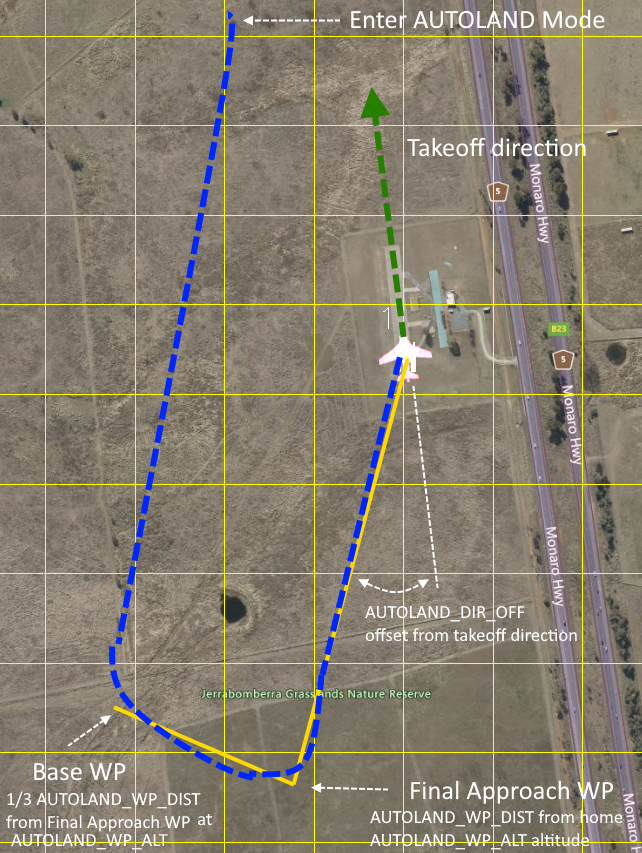
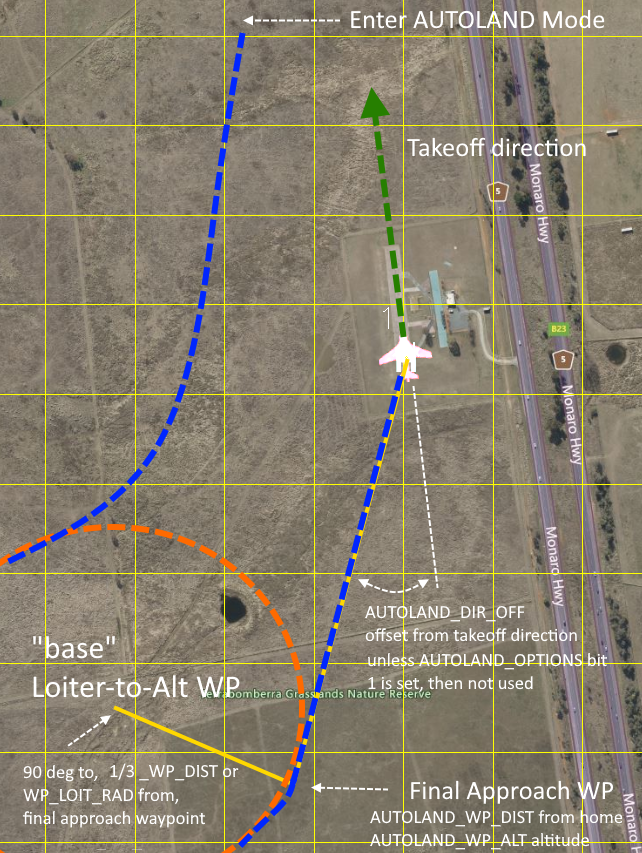
update to AUTOLAND improvements

diff --git a/plane/source/docs/mode_autoland.rst b/plane/source/docs/mode_autoland.rst
@@ -6,26 +6,31 @@ AUTOLAND Mode
 
 AUTOLAND mode provides a fully automatic fixed wing landing which can also be used as an RC failsafe action.
 
-In Mode Takeoff or during a NAV_TAKEOFF in AUTO, the takeoff direction will be captured from the GPS ground course once a GPS ground speed of 5m/s is obtained. This usually occurs early in the takeoff run of a rolling takeoff or almost immediately during a hand or bungee launch.
+In TAKEOFF, FBWA, MANUAL, TRAINING, ACRO,  STABILIZE modes, and during a NAV_TAKEOFF in AUTO, the takeoff direction will be captured from the GPS ground course once a GPS ground speed of 5m/s is obtained. This usually occurs early in the takeoff run of a rolling takeoff or almost immediately during a hand or bungee launch.
 
-It will setup a parameterized base leg and final approach waypoint/altitude, based on the takeoff direction, and proceed to it and switch to an automatic landing at home. It can also be selected as a :ref:`FS_LONG_ACTN<FS_LONG_ACTN>` for RC failsafes.
+It will setup a parameterized LOITER-TO-ALT base waypoint and final approach waypoint/altitude, based on the takeoff direction, and proceed to then and then switch to an automatic landing at home. It can also be selected as a :ref:`FS_LONG_ACTN<FS_LONG_ACTN>` for RC failsafes.
 
-This is useful when programming a mission with a ``DO_LAND_START`` landing sequence is not convenient since it requires a GCS on a laptop or phone, such as traveling with impromptu stops to fly FPV or photograph. Simply use Mode TAKEOFF or a simple loaded before travel with a ``NAV_TAKEOFF`` waypoint. It is also useful for fields which have varying wind directions, which would prevent using a single home-loaded autolanding mission or require using the MissionSelector LUA script to slect from several missions with different approaches.
+This is useful when programming a mission with a ``DO_LAND_START`` landing sequence is not convenient since it requires a GCS on a laptop or phone, such as traveling with impromptu stops to fly FPV or photograph. Simply takeoff in one of the previously mentioned modes and the AUTOLAND will be setup. It is also useful for fields which have varying wind directions, which would prevent using a single home-loaded autolanding mission or require using the MissionSelector LUA script to slect from several missions with different approaches.
 
 Operation
 =========
-To use simply make an automatic takeoff and at any point later switch into AUTOLAND. A final approach waypoint will be created behind the HOME landing target at :ref:`AUTOLAND_WP_DIST<AUTOLAND_WP_DIST>` (400m by default) at :ref:`AUTOLAND_WP_ALT<AUTOLAND_WP_ALT>`  (55m by default)using the takeoff direction plus :ref:`AUTOLAND_DIR_OFF<AUTOLAND_DIR_OFF>` ("0" default) and land using all the parametrics of a normal autolanding. A base leg to the final approach waypoint is also created at the same altitude and 1/3 :ref:`AUTOLAND_WP_DIST<AUTOLAND_WP_DIST>` from the final approach waypoint as shown below:
+To use simply make a takeoff and at any point later switch into AUTOLAND. A final approach waypoint will be created behind the HOME landing target at :ref:`AUTOLAND_WP_DIST<AUTOLAND_WP_DIST>` (400m by default) at :ref:`AUTOLAND_WP_ALT<AUTOLAND_WP_ALT>`  (55m by default)using the takeoff direction plus :ref:`AUTOLAND_DIR_OFF<AUTOLAND_DIR_OFF>` ("0" default) and land using all the parametrics of a normal autolanding. A loiter to alt waypoint tangential to the final approach waypoint is also created at the same altitude and at 1/3 :ref:`AUTOLAND_WP_DIST<AUTOLAND_WP_DIST>` or :ref:`WP_LOITER_RAD<WP_LOITER_RAD>`, whichever is smaller, from the final approach waypoint as shown below:
 
 .. image:: ../../../images/autoland_mode.png
     :target: ../_images/autoland_mode.png
 
 ``LAND`` parameter defaults are usually acceptable for most planes in the 1-2m wingspan, <2kg class) and should yeild a safe, if not optimally tuned, autolanding. ``LAND`` parameters can be optimized with test flights (See :ref:`automatic-landing`).
 
+Options
+=======
+
+The :ref:`AUTOLAND_OPTIONS <AUTOLAND_OPTIONS>` bitmask provides optional behavior. Currently, if bit 0 is set, then instead of capturing takeoff direction( and therefore autolanding direction), the landing direction will be captured immediately at arming if a compass is being used. This allows the direction to be set "manually" by orienting the plane at homw in the desired landing direction and arming. The  :ref:`AUTOLAND_DIR_OFF<AUTOLAND_DIR_OFF>` parameter is ignored in this case.
+
 Notes:
 ======
 
 - Switching out of AUTOLAND to another mode aborts the landing and returns control to that new mode.
 - Throttle aborts of the final landing sequence are not supported. (:ref:`LAND_ABORT_THR<LAND_ABORT_THR>`)
-- If the plane has taken off not using either Mode Takeoff or NAV_LAND, the mode cannot be entered since the takeoff direction has not been captured. If it is selected as a long failsafe action ("5"), :ref:`FS_LONG_ACTN<FS_LONG_ACTN>`, it will switch to normal RTL instead of AUTOLAND on failsafe, in this case.
+- If the plane has taken off not using the aforementioned modes, the mode cannot be entered since the takeoff direction has not been captured. In these cases, if it is selected as a long failsafe action ("5"), :ref:`FS_LONG_ACTN<FS_LONG_ACTN>`, it will switch to normal RTL instead of AUTOLAND on failsafe.
 - The mode co-exists with any mission autolanding sequence, which can be used in AUTO mode, or with :ref:`RTL_AUTOLAND<RTL_AUTOLAND>`.
-- QuadPlanes cannot use this mode unless :ref:`Q_OPTIONS<Q_OPTIONS>` bit 2 (ALLOW_FW_LAND) is set and a Mode Takeoff or AUTO NAV_TAKEOFF has been used.
+- QuadPlanes cannot use this mode.
